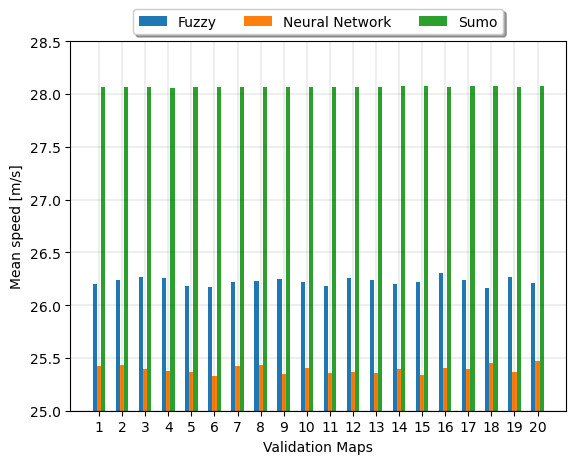
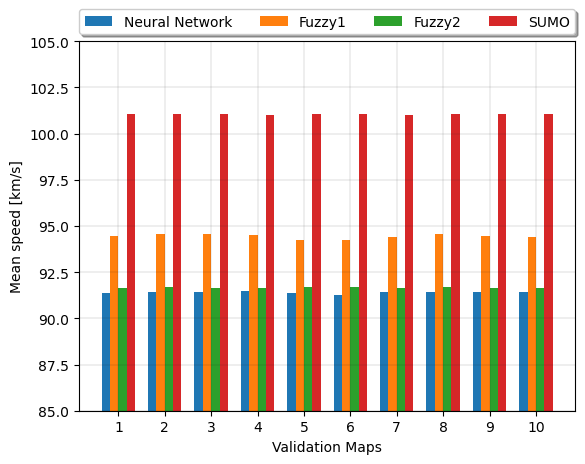
Final plots metrics

diff --git a/plot_validation.py b/plot_validation.py
@@ -3,6 +3,13 @@ import matplotlib.markers as plm
 import numpy as np
 import json
 import os
+import matplotlib.colors as mcolors
+
+color1 = "tab:blue"
+color2 = "tab:orange"
+color3 = "tab:green"
+color4 = "tab:red"
+
 
 folder = "./mapas_validation/"
 mapas = os.listdir(folder)  
@@ -15,7 +22,7 @@ f = open("final_res_complete.json","r")
 dados = json.loads(f.read())
 f.close()
 
-x = np.arange(20)
+x = np.arange(10)
 
 mean_speed_fuzzy = []
 mean_speed_fuzzyv = []
@@ -46,10 +53,11 @@ for m in mapas:
     # print(m,dados[m]["Fuzzy"][-1]['total_fuel'])
     # print(m,dados[m]["Fuzzy"][-1]['mean_speed'])
     # print(m,dados[m]["Fuzzy"][-1]['step'])step
-    if(i<20):
-        mean_speed_fuzzy.append(dados[m]["Fuzzy"][-1]['mean_speed'])
-        mean_speed_model.append(dados[m]["Model"][-1]['mean_speed'])
-        mean_speed_sumo.append(dados[m]["KraussPS"][-1]['mean_speed'])
+    if(i<10):
+        mean_speed_fuzzy.append(dados[m]["Fuzzy"][-1]['mean_speed']*3.6)
+        mean_speed_fuzzyv.append(dados[m]["Fuzzy2"][-1]['mean_speed']*3.6)
+        mean_speed_model.append(dados[m]["Model"][-1]['mean_speed']*3.6)
+        mean_speed_sumo.append(dados[m]["KraussPS"][-1]['mean_speed']*3.6)
 
         total_fuel_fuzzy.append(dados[m]["Fuzzy"][-1]['total_fuel'])
         total_fuel_fuzzyv.append(dados[m]["Fuzzy2"][-1]['total_fuel'])
@@ -57,11 +65,13 @@ for m in mapas:
         total_fuel_sumo.append(dados[m]["KraussPS"][-1]['total_fuel'])
 
         total_fuel_fuzzy2.append(dados[m]["Fuzzy"][-1]['total_fuel']/5)
+        total_fuel_fuzzyv2.append(dados[m]["Fuzzy2"][-1]['total_fuel']/5)
         total_fuel_model2.append(dados[m]["Model"][-1]['total_fuel']/5)
         total_fuel_sumo2.append(dados[m]["KraussPS"][-1]['total_fuel']/5)
 
 
         step_fuzzy.append(dados[m]["Fuzzy"][-1]['step'])
+        step_fuzzyv.append(dados[m]["Fuzzy2"][-1]['step'])
         step_model.append(dados[m]["Model"][-1]['step'])
         step_sumo.append(dados[m]["KraussPS"][-1]['step'])
     i+=1
@@ -77,17 +87,16 @@ width = 0.18
 space = 0.18
 
 
-#labels = ['1', '2', '3', '4', '5', '6', '7', '8', '9', '10']
-labels = ['1', '2', '3', '4', '5', '6', '7', '8', '9', '10', '11', '12', '13', '14', '15', '16', '17', '18', '19', '20']
+labels = ['1', '2', '3', '4', '5', '6', '7', '8', '9', '10']
+#labels = ['1', '2', '3', '4', '5', '6', '7', '8', '9', '10', '11', '12', '13', '14', '15', '16', '17', '18', '19', '20']
 fig, ax = plt.subplots()
 
 ax.set_ylim(2000,3000)
 
-
-rects1 = ax.bar(x - 1.5*space, total_fuel_fuzzy, width, label='Fuzzy1',  color='darkgreen')
-rects1 = ax.bar(x - 0.5*space, total_fuel_fuzzyv, width, label='Fuzzy2', color='darkorange')
-rects2 = ax.bar(x + 0.5*space, total_fuel_model, width, label='Neural Network',  color='steelblue')
-rects3 = ax.bar(x + 1.5*space, total_fuel_sumo, width, label='Sumo',  color='darkred')
+ax.bar(x - 1.5*space, total_fuel_model, width, label='Neural Network',  color=color1)
+ax.bar(x - 0.5*space, total_fuel_fuzzy, width, label='Fuzzy1',  color=color2)
+ax.bar(x + 0.5*space, total_fuel_fuzzyv, width, label='Fuzzy2', color=color3)
+ax.bar(x + 1.5*space, total_fuel_sumo, width, label='SUMO', color=color4)
 
 ax.grid(True, which="both", ls="-", linewidth=0.1, color='0.10', zorder=0) 
 ax.set_xticklabels(labels)
@@ -107,20 +116,23 @@ plt.close(fig)
 
 
 fig, ax = plt.subplots()
-ax.set_ylim(25,28.5)
+ax.set_ylim(85,105)
 
-rects1 = ax.bar(x - space, mean_speed_fuzzy, width, label='Fuzzy')
-rects2 = ax.bar(x, mean_speed_model, width, label='Neural Network')
-rects3 = ax.bar(x + space, mean_speed_sumo, width, label='Sumo')
+ax.bar(x - 1.5*space, mean_speed_model, width, label='Neural Network',  color=color1)
+ax.bar(x - 0.5*space, mean_speed_fuzzy, width, label='Fuzzy1',  color=color2)
+ax.bar(x + 0.5*space, mean_speed_fuzzyv, width, label='Fuzzy2', color=color3)
+ax.bar(x + 1.5*space, mean_speed_sumo, width, label='SUMO', color=color4)
+
+
 
 ax.grid(True, which="both", ls="-", linewidth=0.1, color='0.10', zorder=0) 
 ax.set_xticklabels(labels)
-ax.set_ylabel('Mean speed [m/s]')
+ax.set_ylabel('Mean speed [km/s]')
 ax.set_xlabel('Validation Maps')
 ax.set_xticks(x)
 ax.set_xticklabels(labels)
 ax.legend(loc='lower center', bbox_to_anchor=(0.5, 1),
-              ncol=3, fancybox=True, shadow=True)
+              ncol=4, fancybox=True, shadow=True)
 
 
 fig.savefig('plots/speed.png', bbox_inches='tight')
@@ -129,9 +141,12 @@ plt.close(fig)
 fig, ax = plt.subplots()
 ax.set_ylim(170,200)
 
-rects1 = ax.bar(x - space, step_fuzzy, width, label='Fuzzy')
-rects2 = ax.bar(x, step_model, width, label='Neural Network')
-rects3 = ax.bar(x + space, step_sumo, width, label='Sumo')
+ax.bar(x - 1.5*space, step_model, width, label='Neural Network',  color=color1)
+ax.bar(x - 0.5*space, step_fuzzy, width, label='Fuzzy1',  color=color2)
+ax.bar(x + 0.5*space, step_fuzzyv, width, label='Fuzzy2', color=color3)
+ax.bar(x + 1.5*space, step_sumo, width, label='SUMO', color=color4)
+
+
 
 ax.grid(True, which="both", ls="-", linewidth=0.1, color='0.10', zorder=0) 
 ax.set_xticklabels(labels)
@@ -140,7 +155,7 @@ ax.set_xlabel('Validation Maps')
 ax.set_xticks(x)
 ax.set_xticklabels(labels)
 ax.legend(loc='lower center', bbox_to_anchor=(0.5, 1),
-              ncol=3, fancybox=True, shadow=True)
+              ncol=4, fancybox=True, shadow=True)
 
 
 fig.savefig('plots/time.png', bbox_inches='tight')
@@ -151,10 +166,11 @@ fig, ax = plt.subplots()
 ax.set_ylim(400,600)
 
 
+ax.bar(x - 1.5*space, total_fuel_model2, width, label='Neural Network',  color=color1)
+ax.bar(x - 0.5*space, total_fuel_fuzzy2, width, label='Fuzzy1',  color=color2)
+ax.bar(x + 0.5*space, total_fuel_fuzzyv2, width, label='Fuzzy2', color=color3)
+ax.bar(x + 1.5*space, total_fuel_sumo2, width, label='SUMO', color=color4)
 
-rects1 = ax.bar(x - space, total_fuel_fuzzy2, width, label='Fuzzy')
-rects2 = ax.bar(x, total_fuel_model2, width, label='Neural Network')
-rects3 = ax.bar(x + space, total_fuel_sumo2, width, label='Sumo')
 
 ax.grid(True, which="both", ls="-", linewidth=0.1, color='0.10', zorder=0) 
 ax.set_xticklabels(labels)
@@ -163,7 +179,7 @@ ax.set_xlabel('Validation Maps')
 ax.set_xticks(x)
 ax.set_xticklabels(labels)
 ax.legend(loc='lower center', bbox_to_anchor=(0.5, 1),
-              ncol=3, fancybox=True, shadow=True)
+              ncol=4, fancybox=True, shadow=True)
 
 
 fig.savefig('plots/fuel_km.png', bbox_inches='tight')
